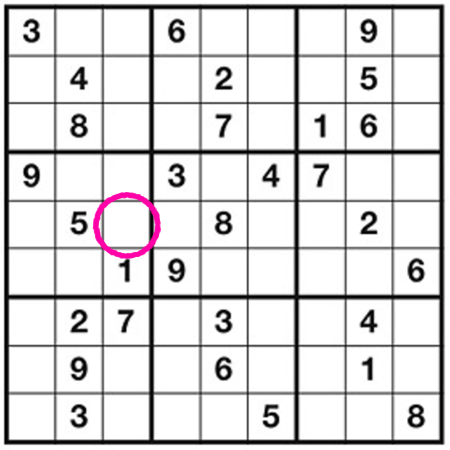
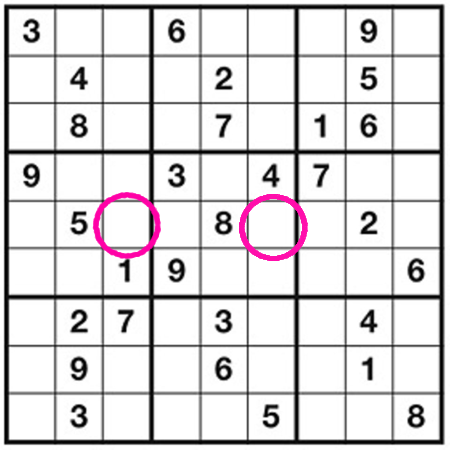
feat: add proofs to all stories before rainbow

Changed region(s): [[0.5289, 0.4044, 0.6844, 0.5911]]

diff --git a/lib/stories/09-sudoku.tsx b/lib/stories/09-sudoku.tsx
@@ -1,3 +1,4 @@
+import { useState } from 'react'
 import { StoryData, ignoreCaseSolution } from '../data'
 
 export const story9: StoryData = {
@@ -5,7 +6,7 @@ export const story9: StoryData = {
   x: 550,
   y: 660,
   deps: [13, 25],
-  render: () => (
+  render: ({ onSubmit, feedback }) => (
     <>
       <p>
         Ich löse manchmal Sudoku, wenn mir langweilig ist. Heute schaut mir Teo
@@ -15,11 +16,81 @@ export const story9: StoryData = {
         Ich weiß nicht, wie viel Chancen ich habe, einem 7-jährigen Sudoku zu
         erklären 😅. Ich versuche es aber (in jede Reihe, Spalte und 3x3-Feld
         muss jeder Ziffer von 1 bis 9 genau einmal vorkommen). Und am Ende
-        konnte er das markierte Feld ausfüllen.
+        konnte er die markierten Felder ausfüllen.
       </p>
-      <img src="story9.png" alt="ein Sudoku" />
-      <p>Welche Zahl kommt in das Feld?</p>
+      <SudokuInput onSubmit={onSubmit} feedback={feedback} />
     </>
   ),
-  submit: ignoreCaseSolution('3'),
+  proof: () => (
+    <>
+      <p>
+        In das linke Feld kommt die Zahl 3 hinein, in das rechte Feld die Zahl
+        6.
+      </p>
+      <img src="story9_sol.png" alt="ein Sudoku" />
+      <p>
+        In beiden Fällen konnten Tina und Teo das Ausschlussprinzip nutzen, den
+        irgendwo in dem 3x3-Feld muss die Zahl einmal vorkommen. Aber weil alle
+        Felder bis auf das markierte ausgeschlossen sind, bleibt nur diese eine
+        Möglichkeit übrig.
+      </p>
+      <p>
+        In Sudoku gibt es viele Varianten, um logisches Denken anzuwenden. Das
+        hier ist nur ein Beispiel davon. Nicht umsonst wird es von vielen auch
+        als Gehirnjogging gesehen.
+      </p>
+    </>
+  ),
+  hideSubmit: true,
+  submit: ignoreCaseSolution('3; 6'),
+}
+
+interface SudokuInputProps {
+  onSubmit: (val: string) => void
+  feedback: React.ReactNode
+}
+
+function SudokuInput({ onSubmit, feedback }: SudokuInputProps) {
+  const [val, setVal] = useState('')
+  const [val2, setVal2] = useState('')
+  return (
+    <>
+      <div className="relative mt-3">
+        <input
+          className="absolute h-10 w-10 border-pink-500 border text-2xl text-center"
+          style={{ left: '106px', top: '205px' }}
+          maxLength={1}
+          value={val}
+          onChange={(e) => {
+            setVal(e.target.value)
+          }}
+        ></input>
+        <input
+          className="absolute h-10 w-10 border-pink-500 border text-2xl text-center"
+          style={{ left: '252px', top: '205px' }}
+          maxLength={1}
+          value={val2}
+          onChange={(e) => {
+            setVal2(e.target.value)
+          }}
+        ></input>
+        <img src="story9.png" alt="ein Sudoku" />
+      </div>
+      <p>
+        Welche Zahlen kommen in die Felder? Trage sie ein und klicke dann auf
+        Los.
+      </p>
+      <div className="-mt-2">{feedback}</div>
+      <div className="mt-4">
+        <button
+          className="px-3 py-1 rounded bg-pink-300 hover:bg-pink-400"
+          onClick={() => {
+            onSubmit(`${val}; ${val2}`)
+          }}
+        >
+          Los
+        </button>
+      </div>
+    </>
+  )
 }

diff --git a/lib/stories/16-landkarte.tsx b/lib/stories/16-landkarte.tsx
@@ -21,5 +21,29 @@ export const story16: StoryData = {
       <p>Wie viel Fußballfelder Land besitzt Gruppe A?</p>
     </>
   ),
+  proof: () => (
+    <>
+      <p>
+        Das ist eine sehr vertrackte Aufgabe! Ich gehe sie Schritt für Schritt
+        an.
+      </p>
+      <img src="/story16_sol.jpg" alt="Landkarte" className="w-[400px]" />
+      <p>
+        Die rechte Hälfte der Insel hat eine Fläche von 620 : 2 = 310
+        Fußballfeldern.
+      </p>
+      <p>
+        Nun bleibt noch die Fläche unten links. Zwar hat B laut Angabe 180
+        Fußballfelder mehr als A, aber die Fläche ist nur 90 Fußballfelder groß.
+        Denn jedes Fußballfeld, dass ich über den Fluss an B gebe, gibt B ein
+        Feld mehr und zieht A ein Feld ab - die Differenz wird um 2 größer!
+        Daher muss hier einmal die Zahl halbiert werden.
+      </p>
+      <p>
+        Damit hat die Gruppe B eine Fläche von 400 Fußballfeldern und der Rest
+        von <strong>220</strong> Fußballbeldern geht an Gruppe A.
+      </p>
+    </>
+  ),
   submit: ignoreCaseSolution('220'),
 }

diff --git a/lib/stories/04-telepathie.tsx b/lib/stories/04-telepathie.tsx
@@ -19,5 +19,30 @@ export const story4: StoryData = {
       <p>Welche Zahl hat Teo sich ausgedacht?</p>
     </>
   ),
+  proof: () => (
+    <>
+      <p>
+        Haha, ist ja klar, dass Tina die Antwort auf fast alles als Zahl
+        genommen hat! Um rechnerisch auf dieses Ergebnis zu kommen, würde ich so
+        vorgehen:
+      </p>
+      <p>
+        Im letzten Schritt hat Teo mit 5 multpliziert und erhält 50. Ich drehe
+        das um und rechne 50 : 5 = 10.
+      </p>
+      <p>
+        Im zweiten Schritt hat Teo 11 abgezogen, ich addiere also 11, d.h. 10 +
+        11 = 21.
+      </p>
+      <p>
+        Im ersten Schritt hat Teo die Zahl halbiert, jetzt muss ich die 21
+        verdoppeln und erhalte das Ergebnis <strong>42</strong>.
+      </p>
+      <p>
+        Wer das gerne systematisch macht stellt die Gleichung (x : 2 - 11) · 5 =
+        50 auf und löst sie nach x.
+      </p>
+    </>
+  ),
   submit: ignoreCaseSolution('42'),
 }

diff --git a/lib/stories/05-figur.tsx b/lib/stories/05-figur.tsx
@@ -20,5 +20,21 @@ export const story5: StoryData = {
       <p>Wie heißt diese Figur?</p>
     </>
   ),
+  proof: () => (
+    <>
+      <p>
+        Da hat sich Tina wieder eine ganz poetische Beschreibung ausgedacht!
+      </p>
+      <img src="/story5_sol.png" alt="Kreis" />
+      <p>
+        Sie hat dabei die wichtigste Eigenschaft des Kreises umschrieben: Alle
+        Punkte auf der Kreislinie haben vom Mittelpunkt den Abstand r (=
+        Radius). Man könnte den Mittelpunkt wie Tina auch als Königin über die
+        Kreislinie sehen. Sie ist ganz alleine - aber ich finde, sie ist von
+        vielen Punkten umgeben und darf sich auch glücklich schätzen, im Zentrum
+        zu stehen.
+      </p>
+    </>
+  ),
   submit: ignoreCaseSolution('kreis'),
 }

diff --git a/lib/stories/12-freunde.tsx b/lib/stories/12-freunde.tsx
@@ -19,7 +19,23 @@ export const story12: StoryData = {
       </p>
       <p>
         Wie viele Personen muss ich durchschnittlich begegnen, um eine Freundin
-        zu finden?
+        zu finden, die meine Sprache spricht?
+      </p>
+    </>
+  ),
+  proof: () => (
+    <>
+      <p>
+        Awwh! Tina, gib nicht auf! Suche weiter, auch wenn das Ergebnis
+        entmutigend wirkt!
+      </p>
+      <p>
+        An der Rechnung von Tina ist aber nichts auszusetzen, im Durchschnitt
+        muss sie 1000 · 5 · 100 = <strong>500000</strong> Personen begegnen.
+      </p>
+      <p>
+        Wenn du ein Einhorn bist und gute Freunde hast: schätze dich glücklich
+        und behandle sie wie einen Schatz.
       </p>
     </>
   ),

diff --git a/lib/stories/19-spielbrett.tsx b/lib/stories/19-spielbrett.tsx
@@ -19,5 +19,18 @@ export const story19: StoryData = {
       </p>
     </>
   ),
+  proof: () => (
+    <>
+      <p>
+        Der kürzeste Weg besteht aus 4 Abschnitten und hat eine Gesamtlänge von
+        6 + 3 + 5 + 5 = <strong>19</strong> Schritten.
+      </p>
+      <img src="/story19_sol.jpg" alt="Spielbrett" className="w-[500px]" />
+      <p>
+        Die untere Alternative vom Start aus ist um einen Schritt länger, ebenso
+        ist der mittlere Weg zum Ziel um einen Schritt länger.
+      </p>
+    </>
+  ),
   submit: ignoreCaseSolution('19'),
 }

diff --git a/lib/stories/33-B.tsx b/lib/stories/33-B.tsx
@@ -4,7 +4,7 @@ export const story33: StoryData = {
   title: 'B',
   x: 840,
   y: 590,
-  deps: [5, 19],
+  deps: [5, 9, 19],
   render: () => (
     <>
       <p>TODO</p>
